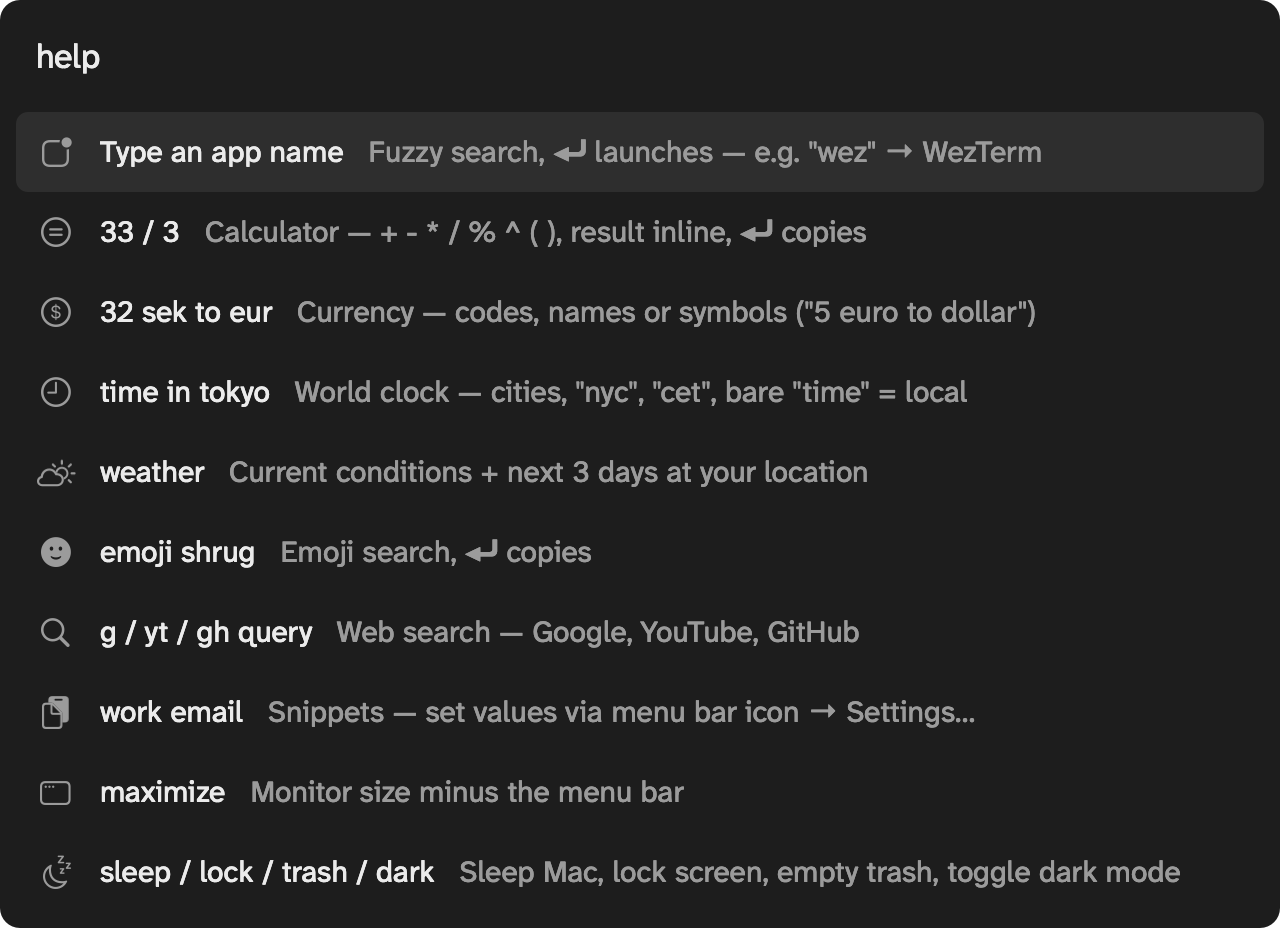
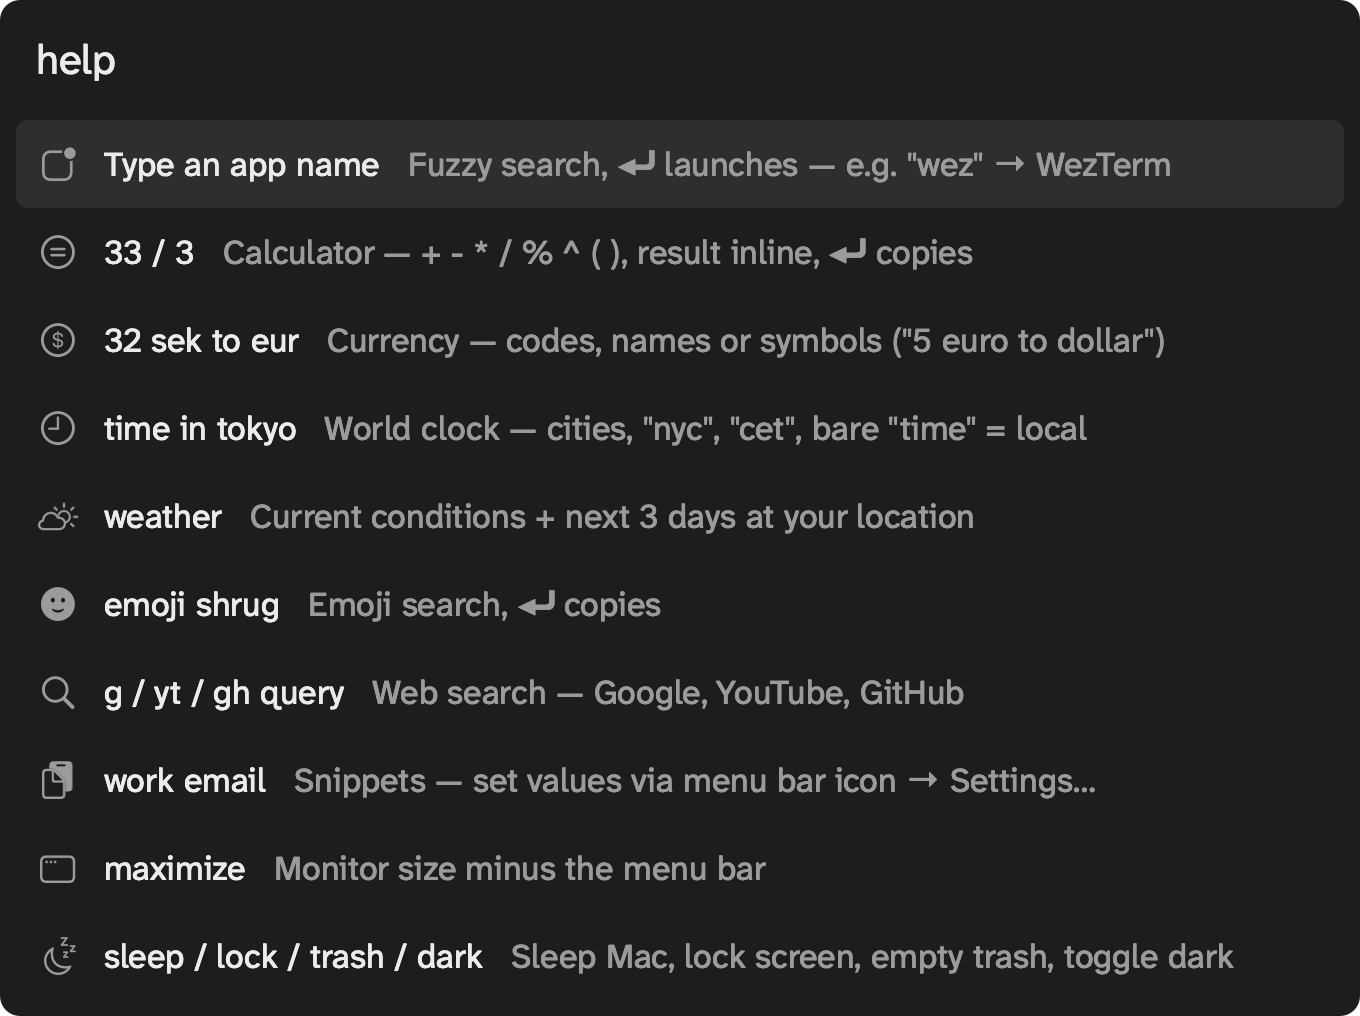
Give Caster bigger type
The query is set at the title size (21pt) and rows at the body size
(17pt), in 44pt rows with 22pt icons, inside a 680-wide panel, so the
launcher reads at a glance. The site captures are rendered again at the
new size.

diff --git a/apps/caster/Sources/VillainCaster/PanelController.swift b/apps/caster/Sources/VillainCaster/PanelController.swift
@@ -2,19 +2,19 @@ import AppKit
 
 // Forge's command menu (apps/forge/apps/web/src/command-menu.tsx) scaled
 // up a step: a launcher sits alone on the desktop, not inside an app.
-private let panelWidth: CGFloat = 640
-private let inputHeight: CGFloat = 56
-private let rowHeight: CGFloat = 40
+private let panelWidth: CGFloat = 680
+private let inputHeight: CGFloat = 60
+private let rowHeight: CGFloat = 44
 private let maxVisibleRows = 10
 private let listInset: CGFloat = 8
 /// Row content sits this far in from the row's edge.
 private let rowContentInset: CGFloat = 10
-private let iconSize: CGFloat = 20
+private let iconSize: CGFloat = 22
 /// An NSTextField draws its text 2pt inside its frame.
 private let inputSidePadding: CGFloat = listInset + rowContentInset - 2
-/// The query at the brand's body size; rows a step under it.
-private let inputFont = Nightshade.font(TypeTokens.ui, size: TypeTokens.body.size)
-private let rowFont = Nightshade.font(TypeTokens.ui, size: 15)
+/// The query at the title size, rows at the body size: read at a glance.
+private let inputFont = Nightshade.font(TypeTokens.ui, size: TypeTokens.title.size)
+private let rowFont = Nightshade.font(TypeTokens.ui, size: TypeTokens.body.size)
 private let screenshotPadding: CGFloat = 48
 
 /// The panel itself: a solid `dialog` tone with `radius-lg` corners. No

diff --git a/apps/caster/Sources/VillainCaster/QueryEngine.swift b/apps/caster/Sources/VillainCaster/QueryEngine.swift
@@ -38,7 +38,7 @@ private struct Command {
 func symbolIcon(_ name: String, _ description: String) -> NSImage? {
     NSImage(systemSymbolName: name, accessibilityDescription: description)?
         // The size and weight of the row text beside it (design/components.md).
-        .withSymbolConfiguration(.init(pointSize: 15, weight: .regular))
+        .withSymbolConfiguration(.init(pointSize: CGFloat(TypeTokens.body.size), weight: .regular))
 }
 
 final class QueryEngine {

diff --git a/apps/caster/AGENTS.md b/apps/caster/AGENTS.md
@@ -9,7 +9,7 @@ Caster wears Nightshade in night and day, following the system's appearance. Rea
 - `Sources/VillainCaster/Design/` holds copies of the generated Swift tokens. Never edit them. Change `design/tokens/*.json`, run `python3 build.py` there, then `make design` here.
 - `Nightshade.swift` turns the tokens into dynamic `NSColor`s and Atkinson fonts. Take colours, type, and radii from it. Don't use system label colours, system fonts, or hand-typed hex values.
 - `Resources/Fonts/` holds Atkinson Hyperlegible Next and its license, copied from `apps/site/assets/fonts`. `make app` bundles them, and `Nightshade.registerFonts()` loads them at launch.
-- The panel is a solid `dialog` tone with `radius-lg` corners: no glass, no dividers, no window shadow (it brings a light rim). Its layout is Forge's command menu (`apps/forge/apps/web/src/command-menu.tsx`) scaled up a step for the desktop: 640 wide, a 56pt input at 17pt, one-line 40pt rows at 15pt in an 8pt inset. The active row is `fg` at `highlight-tint`. Keep the two in step.
+- The panel is a solid `dialog` tone with `radius-lg` corners: no glass, no dividers, no window shadow (it brings a light rim). Its layout is Forge's command menu (`apps/forge/apps/web/src/command-menu.tsx`) scaled up a step for the desktop: 680 wide, a 60pt input at 21pt (the title size), one-line 44pt rows at 17pt (the body size) in an 8pt inset. The active row is `fg` at `highlight-tint`. Keep the two in step.
 - The menu bar glyph is the C from `brand/mark/caster.svg` with its strike, drawn in colour (see "Menu bar glyph" in `brand/mark/README.md`). If the mark changes, run `make design` and copy the new C path into `MenuBarIcon.swift`. Then run `make icon` for the app icon.
 
 `make design-check` writes nothing and fails if any copy has drifted from the vault. CI runs it.
